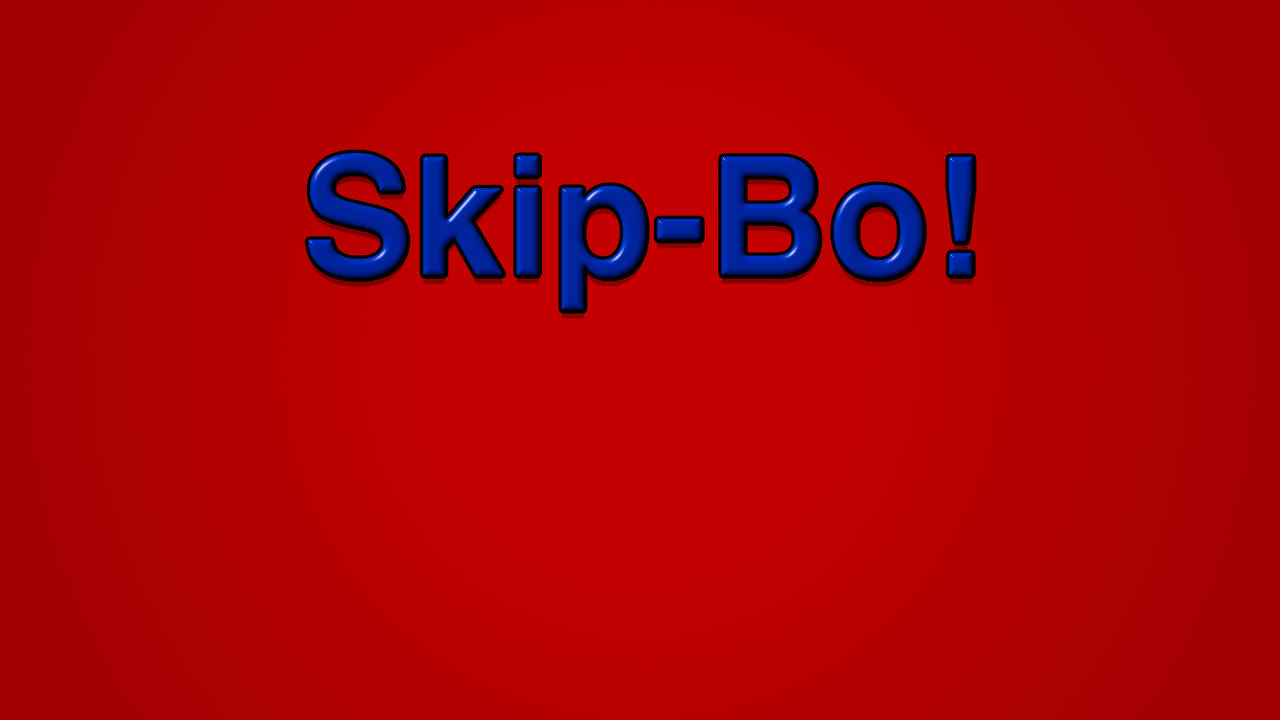
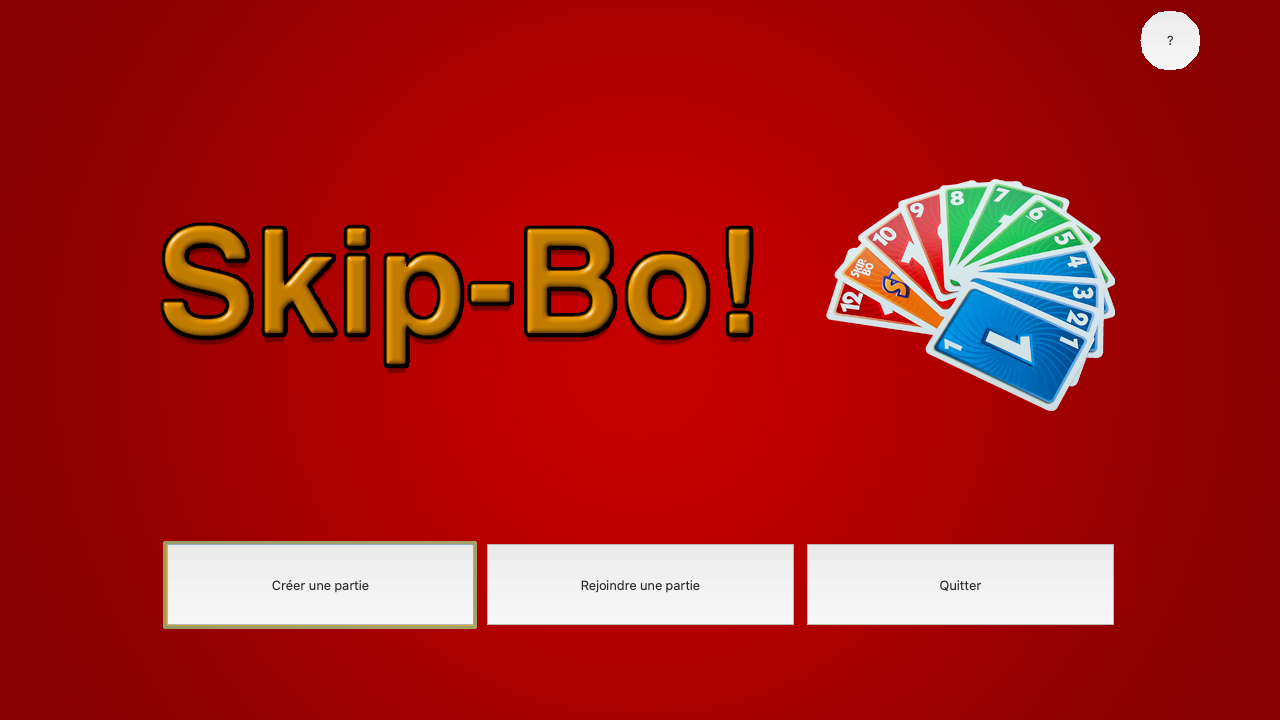
Refont complete. Reste à implémenté une message box pour le bouton help.

diff --git a/main.py b/main.py
@@ -1,6 +1,6 @@
 from PyQt5.QtWidgets import *
 from PyQt5.QtCore import *
-from PyQt5.QtGui import QRegion, QPalette, QPixmap, QBrush
+from PyQt5.QtGui import QRegion, QPalette, QPixmap, QBrush, QIcon
 import creation_partie
 import verification
 import join
@@ -35,6 +35,10 @@ class Menu(QMainWindow):
         self.rsp3 = None
         self.join = QDialog()
         self.verification = QDialog()
+        self.quitter_icon = QIcon
+        self.join_icon = QIcon
+        self.creer_icon = QIcon
+        self.help_icon = QIcon
 
     def center(self):
         frame = self.frameGeometry()
@@ -73,31 +77,19 @@ class Menu(QMainWindow):
         else:
             print("Cancel")
 
+    def help(self):
+        print("help")
+        pass
+
     def init_ui(self):
         # --------------- Paramètres de la fenêtre --------------------
         self.resize(1280, 720)
         self.setMaximumSize(1280, 720)
         self.setMinimumSize(1280, 720)
         self.center()
-        self.background_picture2.load('background_menu3.png')
+        self.background_picture2.load('backgroundmenu3.png')
         self.palette.setBrush(self.backgroundRole(), QBrush(self.background_picture2))
         self.setPalette(self.palette)
-        # self.background_picture.setStyleSheet("background-image: url(background_menu.png);")
-        # self.setCentralWidget(self.background_picture)
-        # self.background_picture.setScene(self.scene)
-        # # --------------- Fin des paramètres -------------------------
-        #
-        # # --------------- Paramètres pour le groupbox ------------------
-        # self.grp.setLayout(QVBoxLayout())
-        # self.grp.layout().addWidget(self.bouton_help)
-        # self.grp.layout().addWidget(self.bouton_creer)
-        # self.grp.layout().addWidget(self.bouton_rejoindre)
-        # self.grp.layout().addWidget(self.bouton_quitter)
-        # self.palette.setColor(QPalette.Background, Qt.transparent)
-        # self.grp.setPalette(self.palette)
-        # self.proxy.setWidget(self.grp)
-        # self.scene.addItem(self.proxy)
-        # --------------- Fin des paramètres -------------------------
 
         # --------------- Éléments présents dans la fenêtre ----------
         self.hauteur = int(self.frameGeometry().height())
@@ -107,24 +99,37 @@ class Menu(QMainWindow):
         self.label.setText("* Skip-Bo est une marque déposée de Mattel Inc.")
         self.label.move(20, 690)
         self.label.adjustSize()
-        self.bouton_creer.setText("Créer une partie")
+        self.bouton_creer.setText("")
+        self.creer_icon = QIcon("bouton_creer.png")
+        self.bouton_creer.setIcon(self.creer_icon)
+        self.bouton_creer.setIconSize(QSize(320, 90))
         self.bouton_creer.setGeometry((self.quart_longueur-160), (3*self.quart_hauteur), self.quart_longueur,
                                       int(self.quart_hauteur / 2))
         # self.bouton_creer.setStyleSheet("QPushButton{background: transparent;}")
         self.bouton_creer.clicked.connect(self.creer_nouvelle_partie)
-        self.bouton_rejoindre.setText("Rejoindre une partie")
+        self.bouton_rejoindre.setText("")
+        self.join_icon = QIcon("bouton_join.png")
+        self.bouton_rejoindre.setIcon(self.join_icon)
+        self.bouton_rejoindre.setIconSize(QSize(318, 88))
         self.bouton_rejoindre.setGeometry(((2*self.quart_longueur)-160), (3*self.quart_hauteur), self.quart_longueur,
                                           int(self.quart_hauteur / 2))
         self.bouton_rejoindre.clicked.connect(self.joindre_partie)
-        self.bouton_help.setText("?")
+        self.bouton_help.setText("")
+        self.help_icon = QIcon("bouton_help.png")
+        self.bouton_help.setIcon(self.help_icon)
+        self.bouton_help.setIconSize(QSize(65, 65))
         self.bouton_help.setFixedHeight(100)
         self.bouton_help.setFixedWidth(100)
         self.bouton_help.move(self.longueur-int(self.quart_longueur / (4/2)), -10)
+        self.bouton_help.clicked.connect(self.help)
         self.test_rect = QRect(20, 20, 60, 60)
         self.test_region = QRegion(self.test_rect, QRegion.Ellipse)
         self.test_region.boundingRect().size()
         self.bouton_help.setMask(self.test_region)
-        self.bouton_quitter.setText("Quitter")
+        self.bouton_quitter.setText("")
+        self.quitter_icon = QIcon("bouton_quitter.png")
+        self.bouton_quitter.setIcon(self.quitter_icon)
+        self.bouton_quitter.setIconSize(QSize(318, 88))
         self.bouton_quitter.setGeometry(((3*self.quart_longueur)-160), (3*self.quart_hauteur), self.quart_longueur,
                                         int(self.quart_hauteur / 2))
         self.bouton_quitter.clicked.connect(self.quitter)
